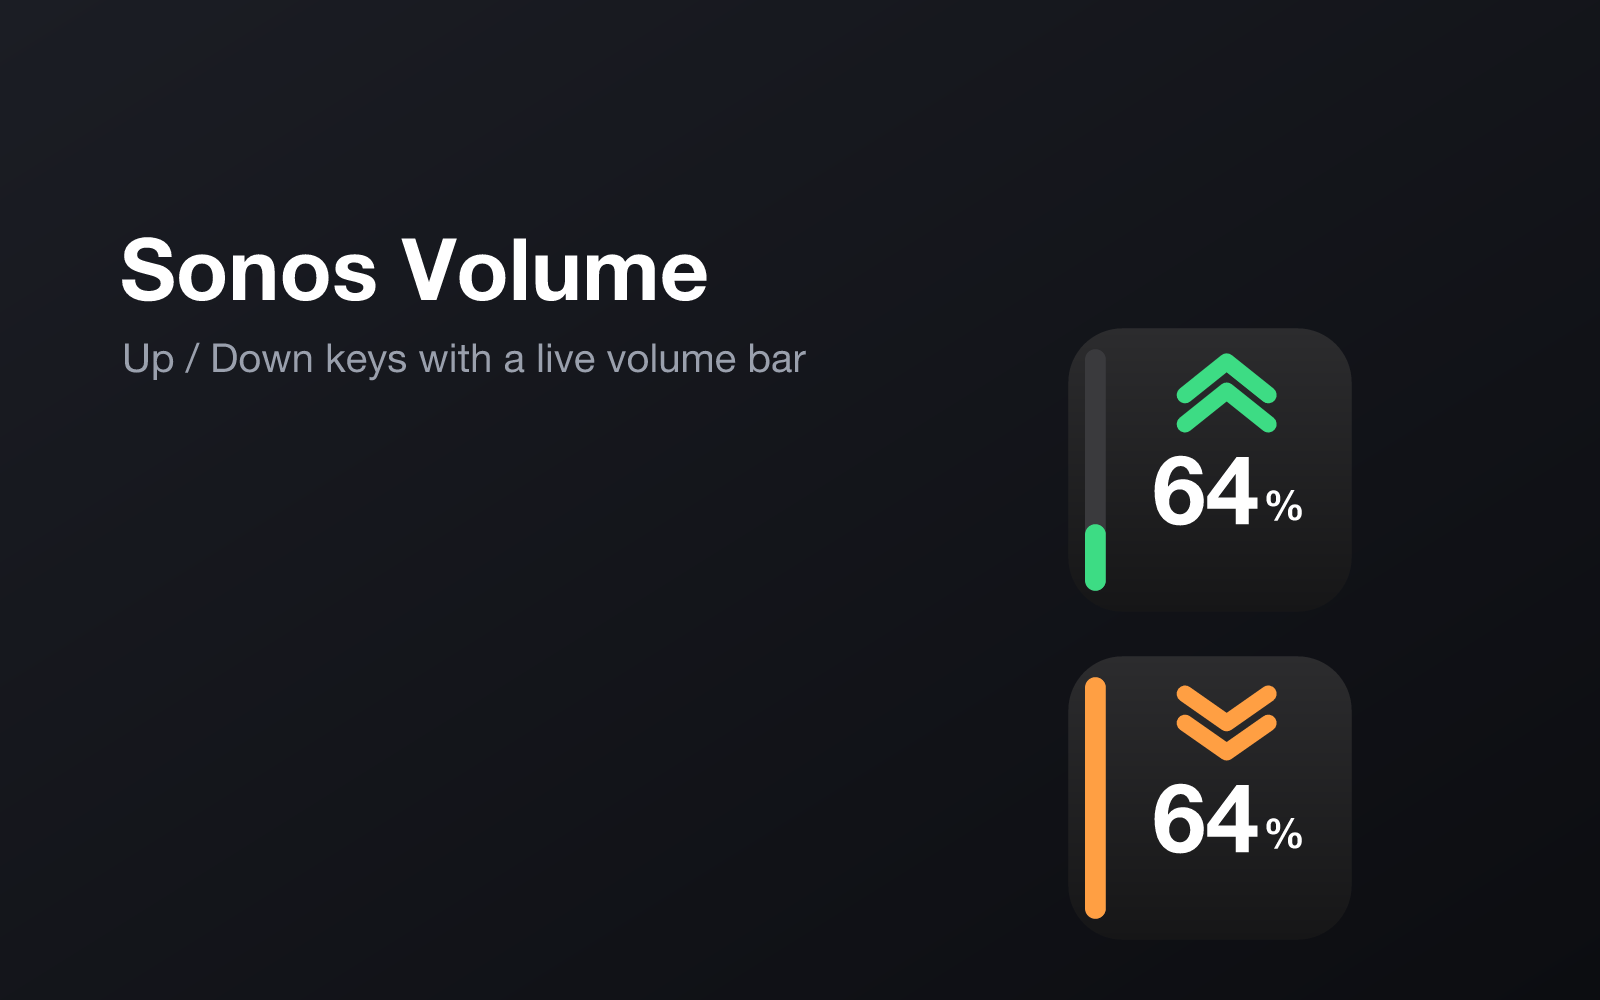
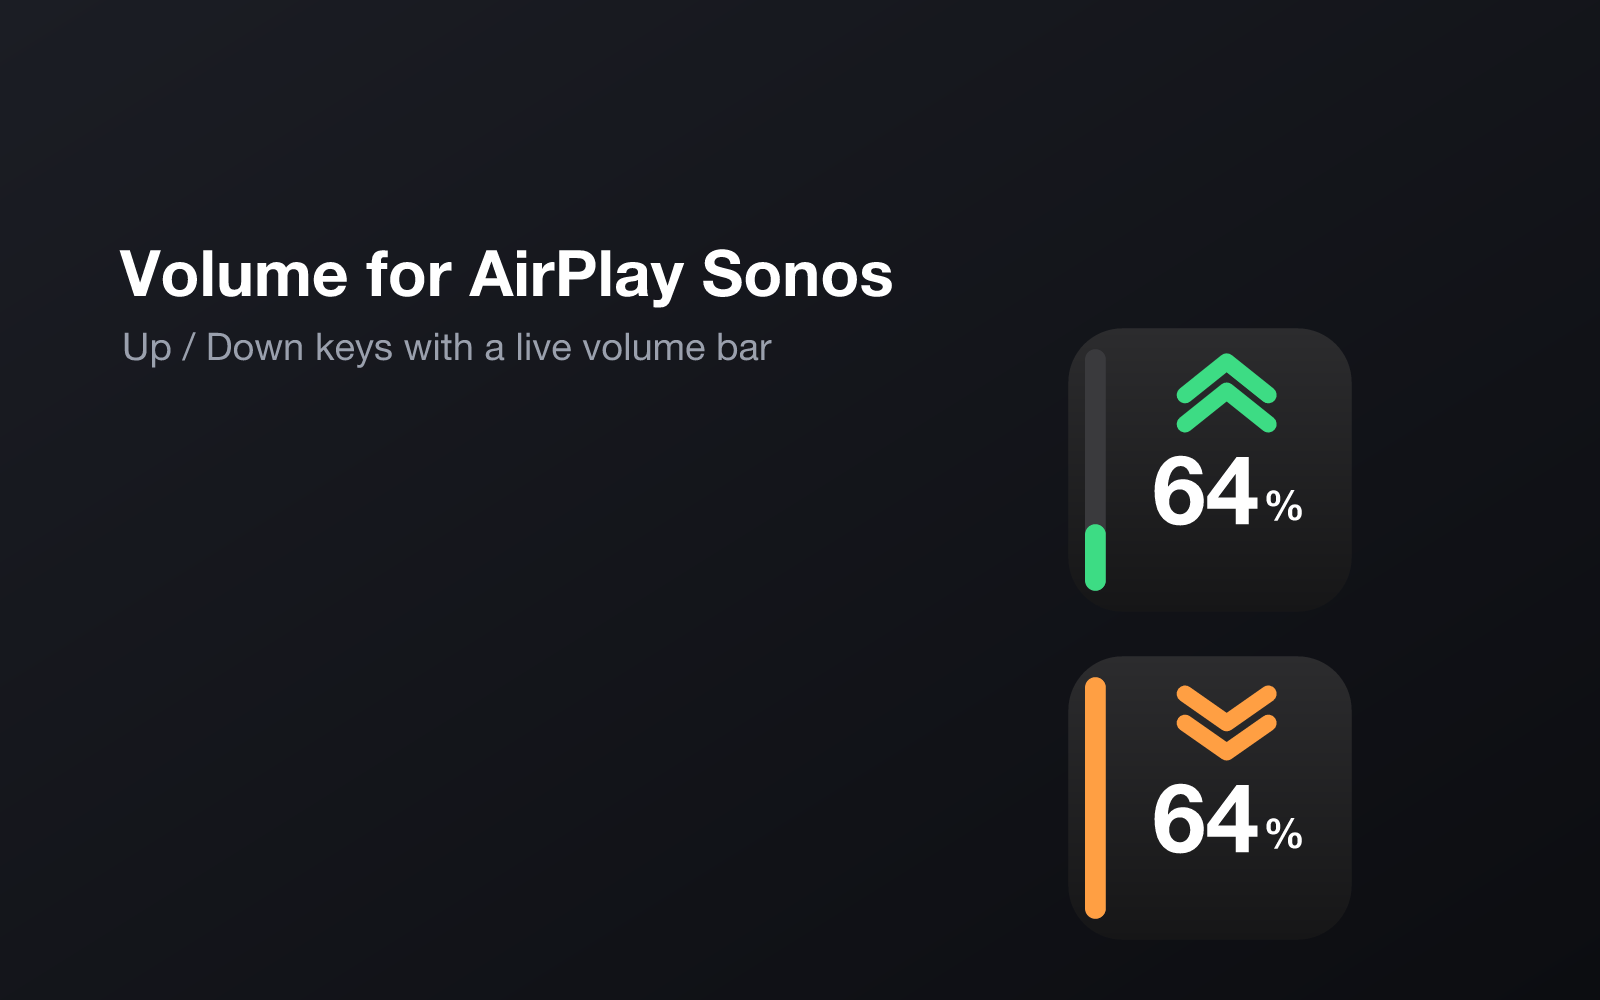
Rename to "Volume for AirPlay Sonos" and add non-affiliation disclaimer
- manifest: Name/Category -> "Volume for AirPlay Sonos"; Description notes it is
  not affiliated with or endorsed by Sonos
- README: trademark/non-affiliation disclaimer (Sonos, Inc. / Apple Inc.)
- marketing preview + package.json description updated to match
- pack script: add --force for repeatable repackaging

Changed region(s): [[0.0625, 0.217, 0.5625, 0.31], [0.0625, 0.341, 0.5, 0.372]]

diff --git a/README.md b/README.md
@@ -1,9 +1,14 @@
-# Sonos Volume
+# Volume for AirPlay Sonos
 
 A Stream Deck plugin with two buttons — **Volume Up** and **Volume Down** — for
 Sonos speakers, including speakers that are playing an AirPlay stream. The volume
 is controlled through the Sonos device API over your local network, so it works
 regardless of whether the audio source is AirPlay, a streaming service, or line-in.
+
+> **Disclaimer:** This is an independent, third-party plugin. It is **not
+> affiliated with, sponsored by, or endorsed by Sonos, Inc. or Apple Inc.**
+> "Sonos" and "AirPlay" are trademarks of their respective owners and are used
+> here only to describe compatibility.
 
 ## Actions
 